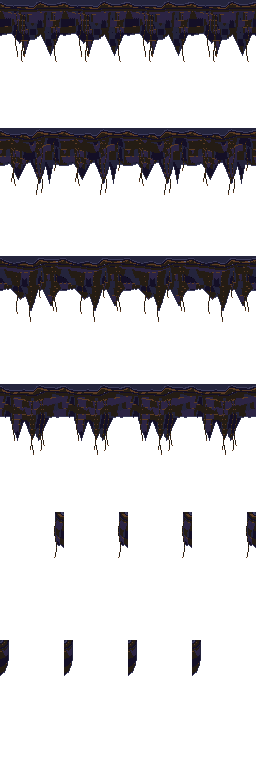
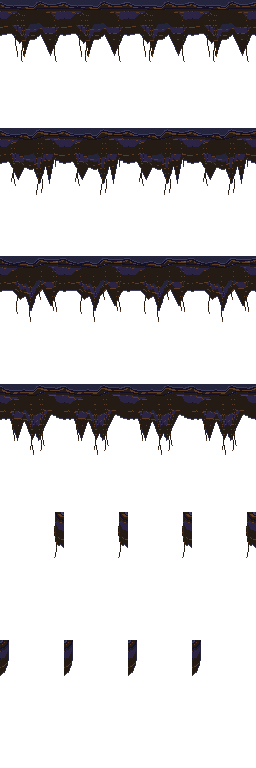
island_underside.png: long hard-edged strata, no checker squares (Theme Discussion, AI-look rules)
Each band's tone came from 8 px noise cells, so 8 px squares alternated; it now runs along the band in 32 px cells plus a per-band offset: long strata with hard edges. The fields that must join across tiles (bands, tones, face length) share one seed for every variant; only drips and roots vary. Same layout, all 4 acts.

diff --git a/Project_T/tools/environment_art/heartwood_grounds.html b/Project_T/tools/environment_art/heartwood_grounds.html
@@ -1817,7 +1817,7 @@ function islandUnderside(A, row, f) {
   // Void into the dark; a Bark ledge here and there like the lip's lit edge) with calm bands, no checker dither. Each
   // column hangs from the lip's lowest pixel, so the face follows the lip; in the corners it wraps under the lip's arc
   // on a rounded profile instead of stopping at a straight cut. Static (4 identical frame columns keep the layout).
-  const L = new Img(T, T * 2), piece = row < 4 ? 5 : row === 4 ? 6 : 7, v = row < 4 ? row : 0, s = SEED + 950 + v * 17;
+  const L = new Img(T, T * 2), piece = row < 4 ? 5 : row === 4 ? 6 : 7, v = row < 4 ? row : 0, s = SEED + 950 + v * 17, s0 = SEED + 950;  // s0: the fields that must join across tiles
   const top = new Img(); paintLip(top, A, piece, v);
   const drips = [0, 1, 2, 3].map(i => [10 + hash(i, 1, s) * 44, 5 + hash(i, 2, s) * 7, 8 + hash(i, 3, s) * 20]);
   const lens = [];
@@ -1829,7 +1829,7 @@ function islandUnderside(A, row, f) {
     // Corners: 0 at the arc's far end, 1 where it meets the S side; a quarter-circle profile so the face rounds off.
     const t = piece === 6 ? clamp((x + 1 - (T - LIP_W - 2)) / (LIP_W + 2), 0, 1) : piece === 7 ? clamp((LIP_W + 2 - x) / (LIP_W + 2), 0, 1) : 1;
     const shape = Math.sqrt(1 - (1 - t) * (1 - t));
-    let len = 22 + pnoise(x, 0, 16, s, 4) * 10;
+    let len = 22 + pnoise(x, 0, 16, s0, 4) * 10;
     for (const [cx, w, h] of drips) len = Math.max(len, 22 + h * (1 - Math.abs(x + .5 - cx) / w));
     len *= shape;
     lens[x] = len;
@@ -1839,8 +1839,8 @@ function islandUnderside(A, row, f) {
       let c;
       if (i < 3) c = "#241c14";  // the lip's Root earth carries on down
       else {
-        const band = Math.floor((i + pnoise(x, i, 16, s + 4, 4) * 6) / 7), tone = pnoise(x, band * 8, 8, s + 5, 8) - k * .3 + (band % 2 ? .06 : 0);
-        const ledge = Math.floor((i - 1 + pnoise(x, i - 1, 16, s + 4, 4) * 6) / 7) !== band;  // a band's top row
+        const band = Math.floor((i + pnoise(x, i, 16, s0 + 4, 4) * 6) / 7), tone = pnoise(x, band * 8, 32, s0 + 5, 2) * .8 + hash(band, 0, s0 + 5) * .25 - k * .3 + (band % 2 ? .06 : 0);  // long strata along each band (8 px cells made checker squares)
+        const ledge = Math.floor((i - 1 + pnoise(x, i - 1, 16, s0 + 4, 4) * 6) / 7) !== band;  // a band's top row
         c = ledge && tone > .45 && hash(x >> 1, band, s + 6) < .5 ? "#5c3c24"  // Bark: a ledge catching light, like the lip's edge
           : tone > .55 ? "#2c2444" : tone > .25 ? "#241c14" : tone > .1 ? "#24243c" : "#140f26";  // Shade, Root, Night, Dread only in small crevices: never as dark as the sky
       }
